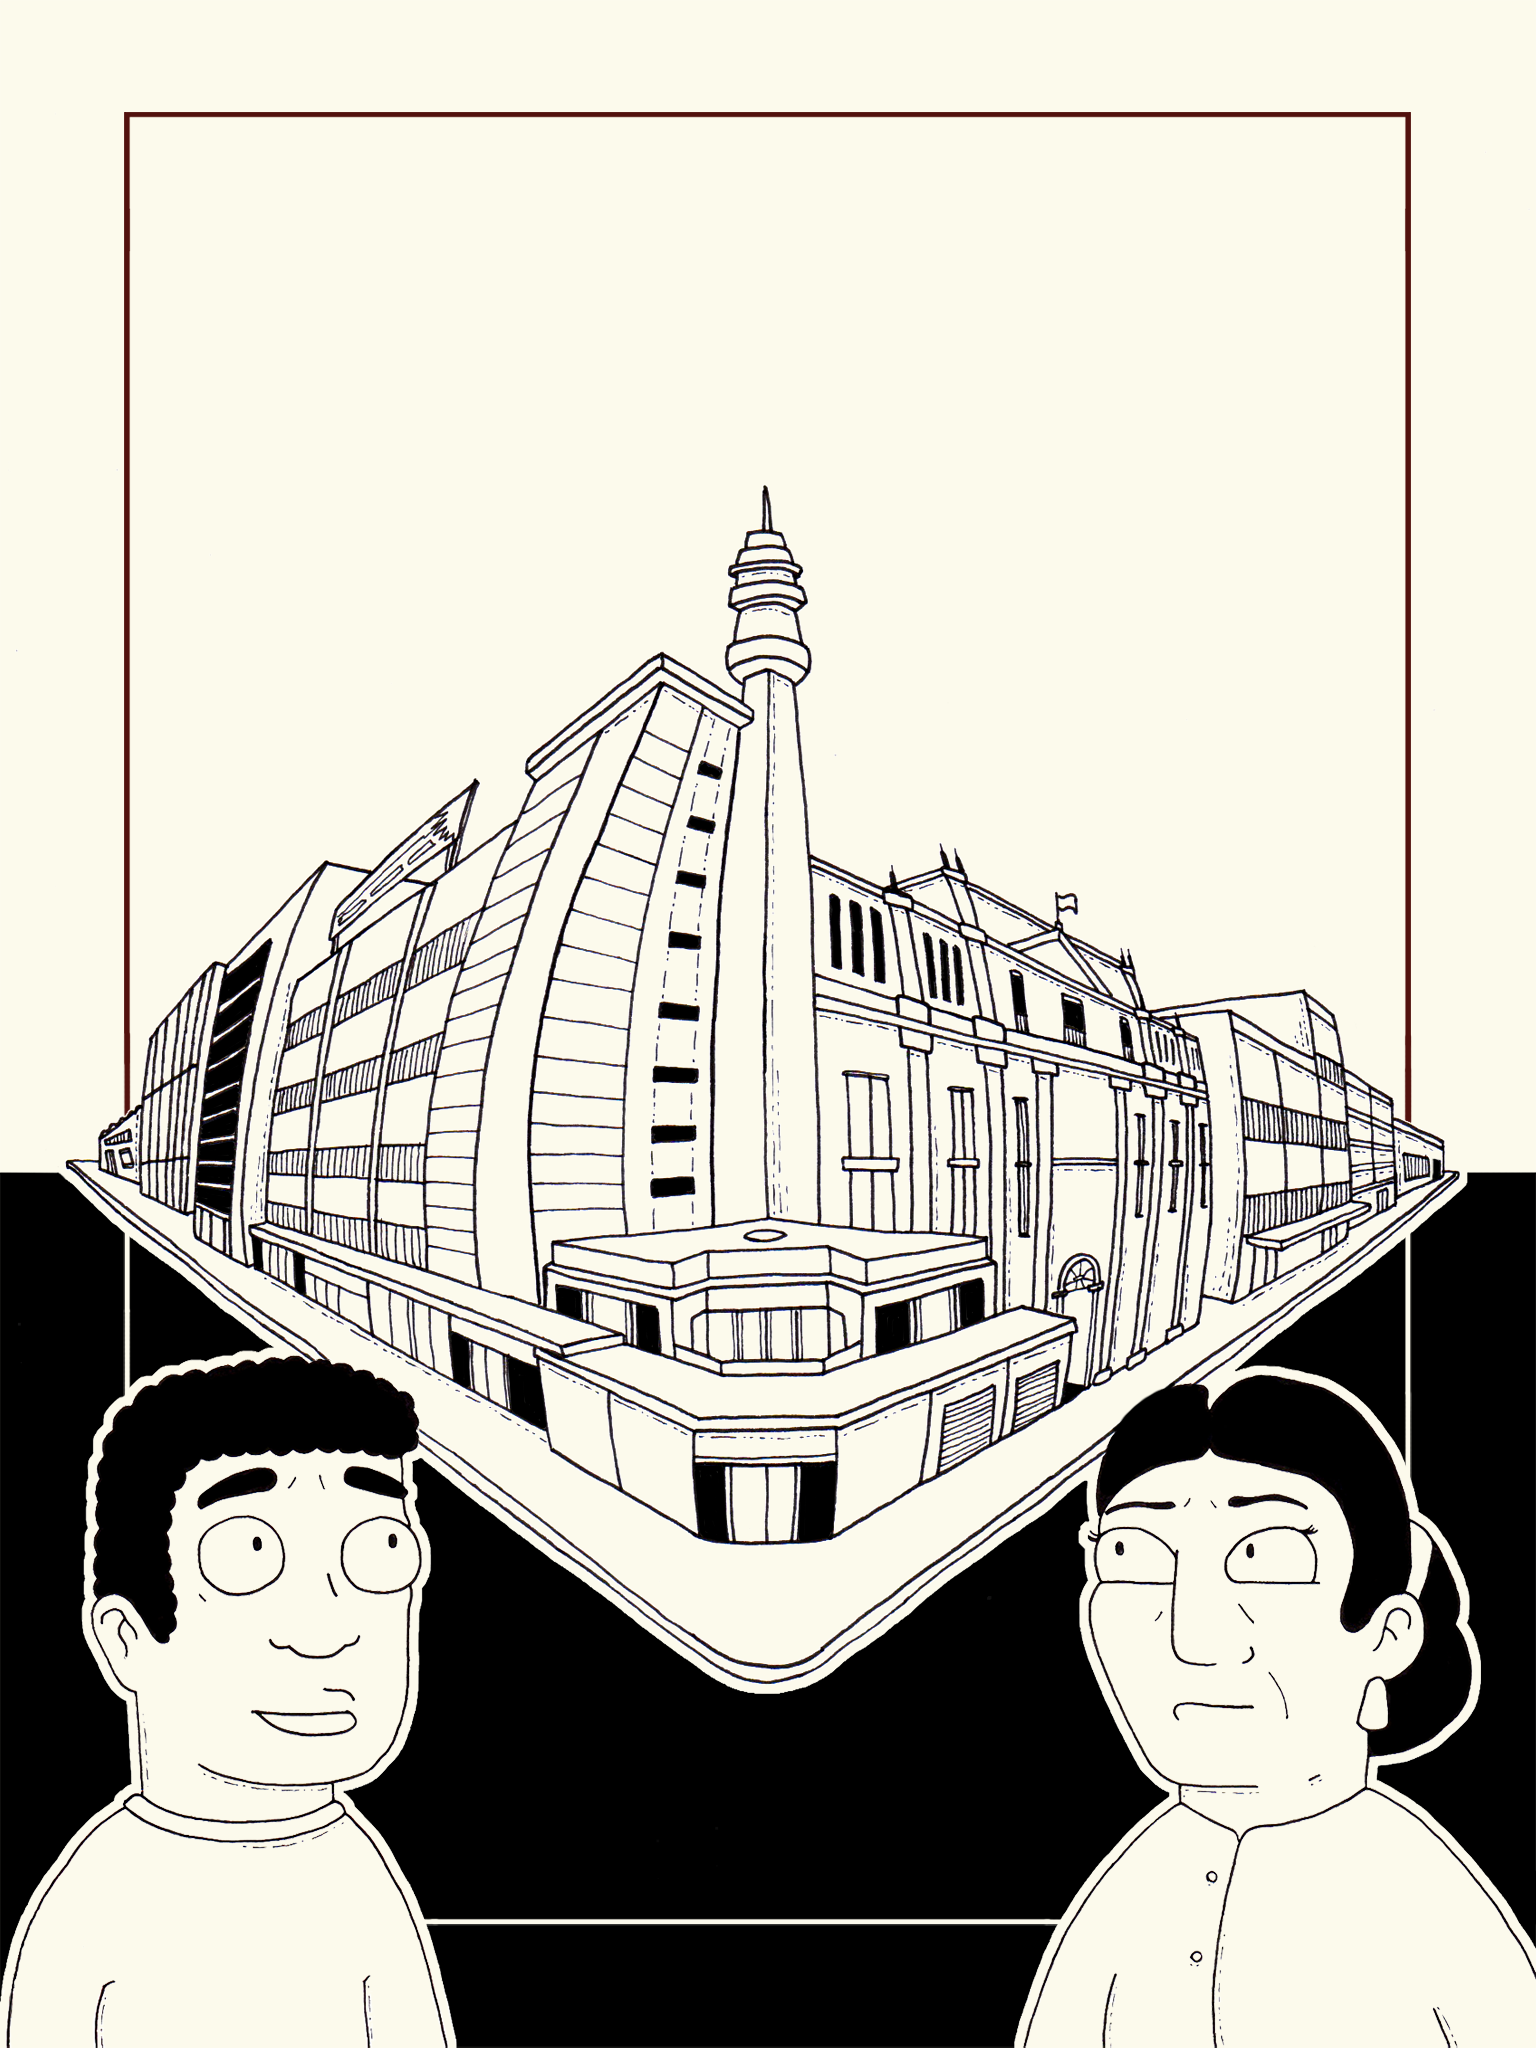
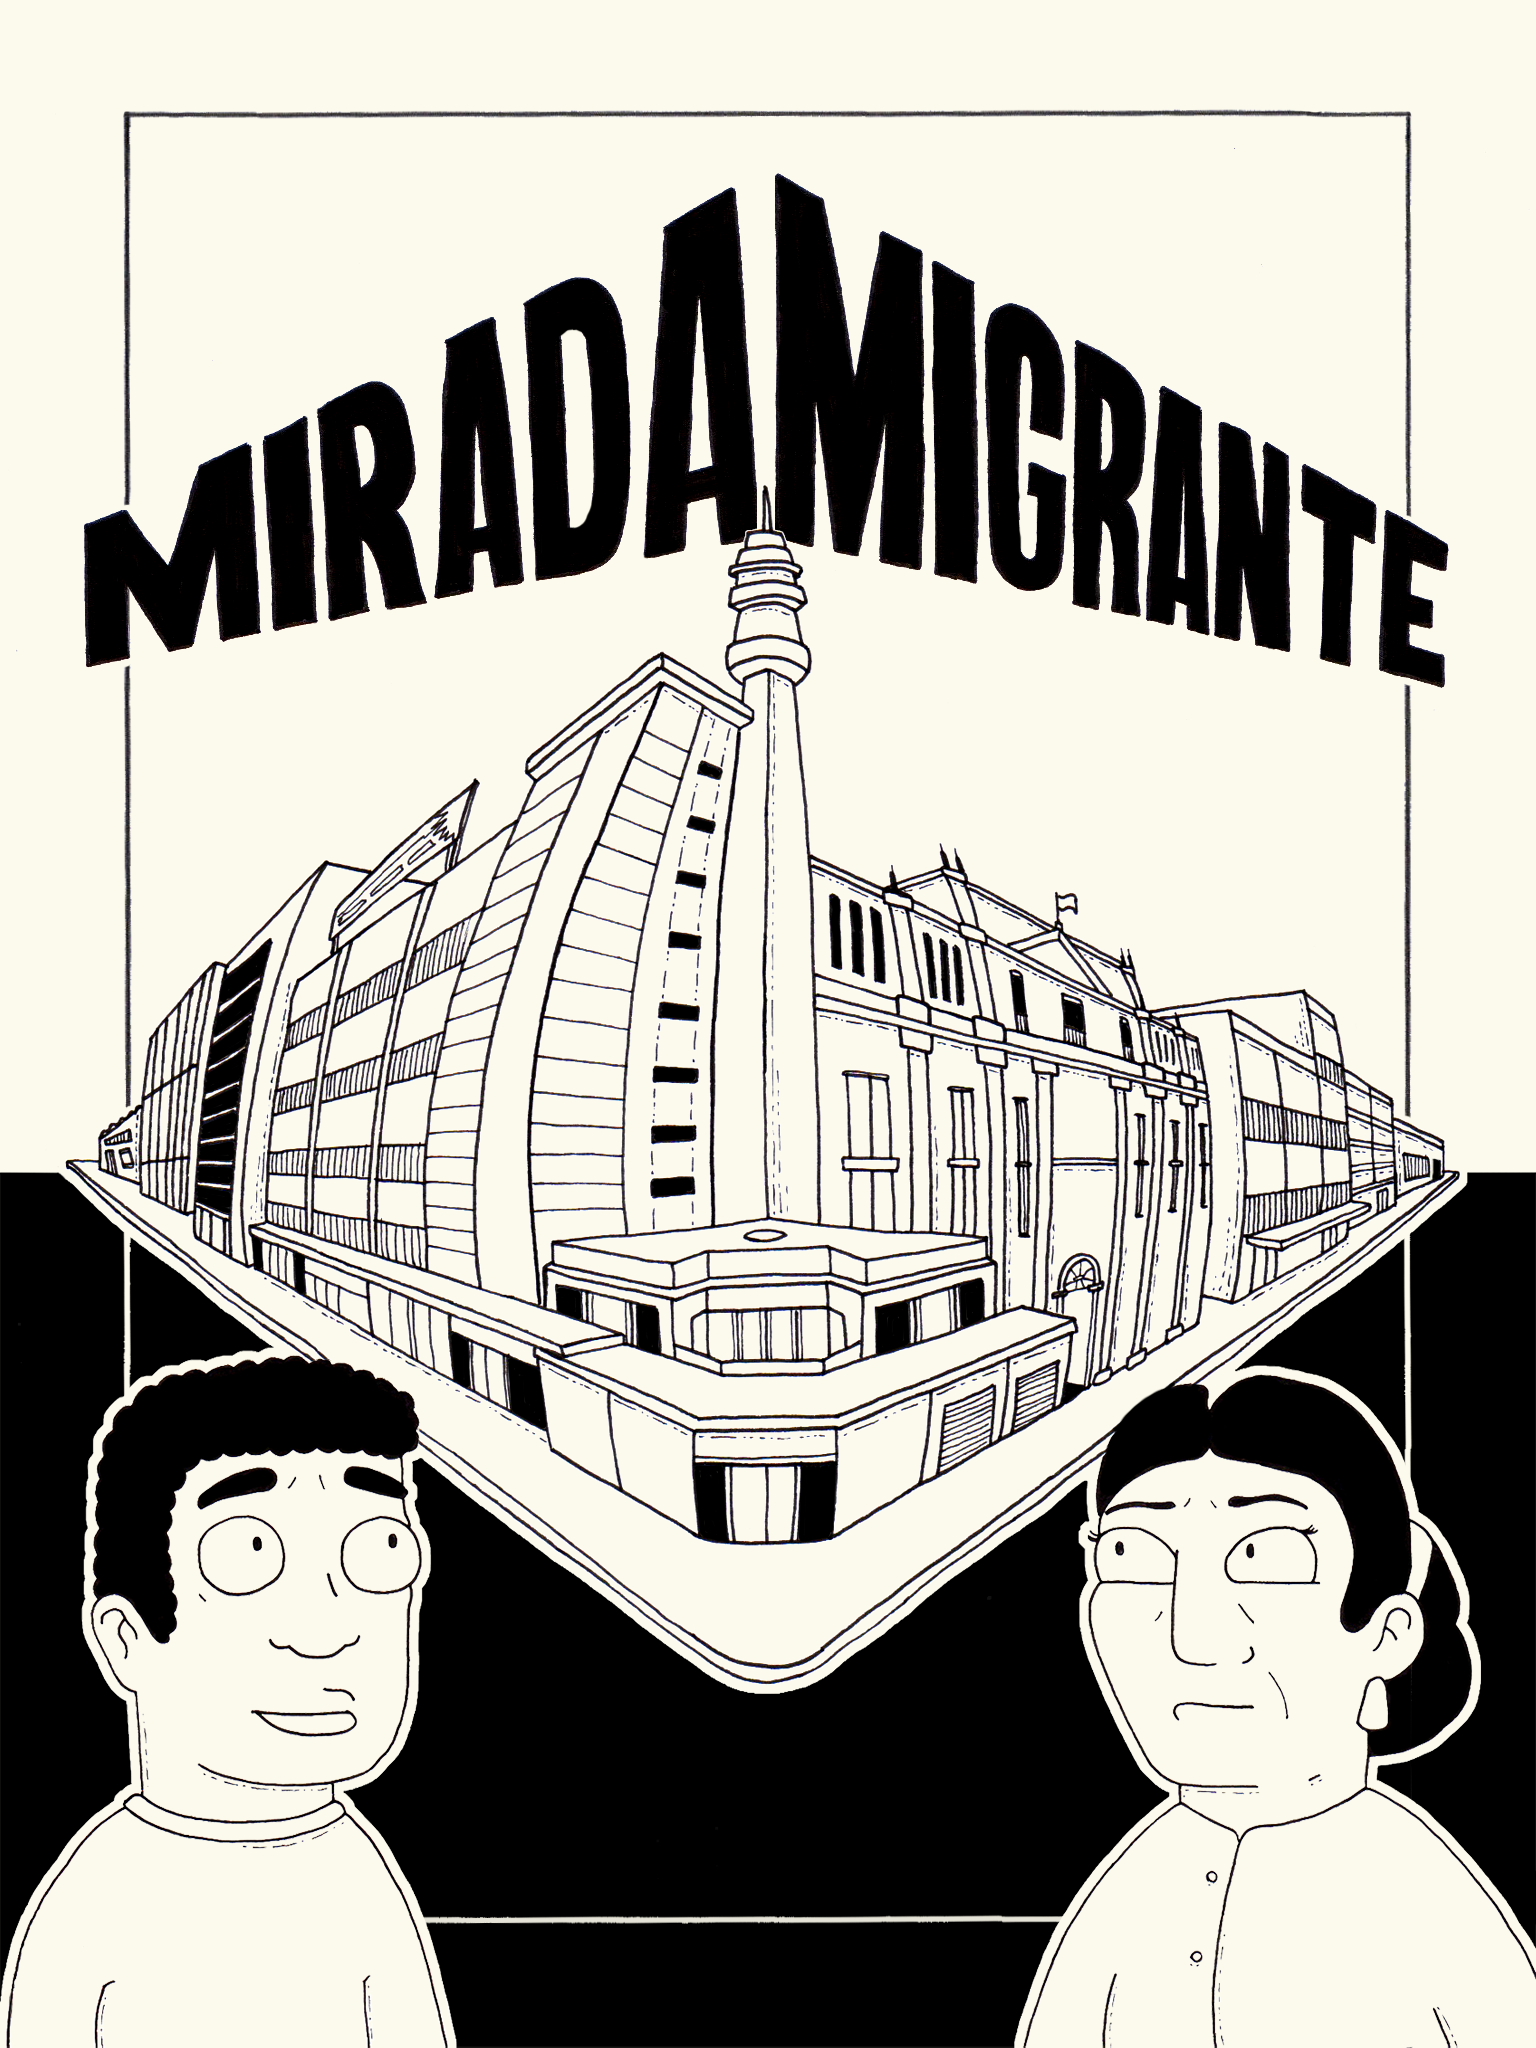
Portada, segunda pagina y contraportada

Changed region(s): [[0.0312, 0.0312, 0.9375, 0.5312], [0.2812, 0.0312, 0.3125, 0.0625]]

diff --git a/index.html b/index.html
@@ -157,6 +157,11 @@
       			<div class="image vertical page_20"></div>
       		</div>
    		</div>
+      <div class="pt-page pt-page-23">
+          <div class="parent" style="display:flex">
+            <div class="image vertical back_cover"></div>
+          </div>
+      </div>
 		</div>
 
 		<div class="pt-message">

diff --git a/css/mystyles.css b/css/mystyles.css
@@ -121,6 +121,10 @@
   background-image: url(../img/pag_20.png);
 }
 
+.back_cover {
+  background-image: url(../img/contra_portada.png);
+}
+
 /* Cambios para mobile vertical van aquí */
 @media only screen 
 and (max-width:1024px){
